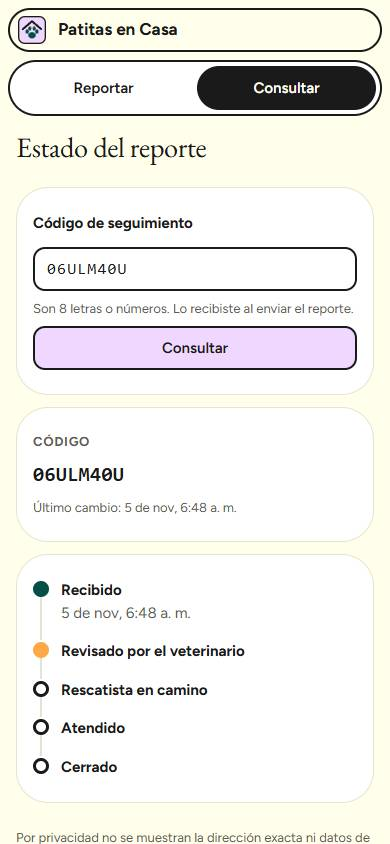
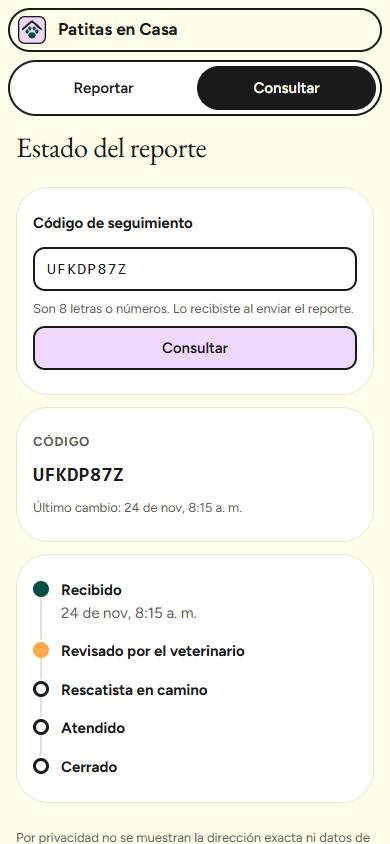
docs: manual de usuario con capturas nuevas y pasos sencillos (#408)
Closes #408

Changed region(s): [[0.0923, 0.5545, 0.6154, 0.6161], [0.1538, 0.7085, 0.4923, 0.7393], [0.1231, 0.3081, 0.3385, 0.3389]]

diff --git a/docs/manual-usuario.md b/docs/manual-usuario.md
@@ -18,9 +18,28 @@ atender. Este manual explica, con capturas, qué hace cada persona en el sistema
 | [Administrador](#administrador) | Botón «Entrar como personal» | Sí |
 | [Alcaldía](#alcaldía) | Botón «Entrar como personal» | Sí, la crea el administrador |
 
-Las capturas se tomaron el 5 de noviembre de 2026, con el diseño nuevo, y los **datos de demostración** (nombres,
-reportes y animales inventados). El ciudadano, el rescatista y el adoptante se muestran en el
-celular (390 px); los demás, en un computador.
+Las capturas se tomaron el **25 de noviembre de 2026** con los **datos de demostración**
+(nombres, reportes y animales inventados). El ciudadano, el rescatista y el adoptante se muestran
+en el celular (390 px); los demás, en un computador.
+
+**Para probarlo sin datos reales**, entra al panel con una cuenta de demostración (la contraseña
+es la misma para todas y la conoce quien instaló el sistema):
+
+| Rol | Correo |
+|---|---|
+| Veterinario | `veterinaria@demo.patitas.co` |
+| Coordinador | `coordinador@demo.patitas.co` |
+| Rescatista | `rescatista@demo.patitas.co` |
+| Adoptante | `adoptante@demo.patitas.co` |
+| Administrador | `admin@demo.patitas.co` |
+| Alcaldía | `alcaldia@demo.patitas.co` |
+
+**Mensajes que puedes ver en cualquier pantalla del panel:**
+
+- «Cargando…»: los datos vienen en camino.
+- «El servidor está despertando»: el servidor estaba dormido; espera unos segundos.
+- «El servidor tuvo un problema, intenta de nuevo en un momento»: no es culpa de lo que
+  escribiste. Espera un poco y toca **Actualizar** o repite la acción.
 
 ---
 
@@ -91,17 +110,23 @@ artificial **sugiere**, pero **el veterinario decide**.
 
 ![Cola de triaje](manual/05-veterinario-cola.jpg)
 
-Al entrar ve la **cola**: los reportes que esperan revisión, primero los más graves
+1. Entra con tu correo y contraseña en **Entrar como personal**.
+2. Se abre la pestaña **Cola de triaje**.
+
+Ahí está la **cola**: los reportes que esperan revisión, primero los más graves
 (crítica, alta, media, baja). Cada prioridad se reconoce por su nombre y su forma, no solo por
 el color: ▲ crítica, ◆ alta, ● media y ○ baja; las críticas y altas llevan además una barra
 gruesa a la izquierda. Al lado se ve hace cuánto llegó el reporte; la confianza de la sugerencia
-(de 0 a 1) aparece al abrirlo. **Actualizar** trae los reportes nuevos.
+(de 0 a 1) aparece al abrirlo. **Actualizar** trae los reportes nuevos. Si no hay ninguno, la
+pantalla dice «No hay reportes por confirmar».
 
 ### 2. Revisar un reporte
 
 ![Detalle de un reporte](manual/06-veterinario-reporte.jpg)
 
-Al tocar un reporte aparece a la derecha (en el celular, debajo):
+Toca un reporte de la lista. Su detalle aparece a la derecha (en el celular, debajo; la pantalla
+baja sola hasta él). Mientras no elijas ninguno, en el computador dice «Elige un reporte de la
+lista». El detalle muestra:
 
 - qué pasó, dónde (con enlace a Google Maps) y hace cuánto llegó;
 - la prioridad sugerida y su confianza;
@@ -129,10 +154,14 @@ Si el ciudadano envió un video, más abajo está **Análisis de video**:
 
 ![Ajustar la prioridad](manual/06b-veterinario-ajustar.jpg)
 
-- **Confirmar**: está de acuerdo con la sugerencia.
-- **Ajustar prioridad…**: elige otra; si es distinta de la sugerida, el sistema pide una
-  **justificación** (al menos 10 caracteres y 5 letras). Queda registrada con su nombre.
-- **Descartar reporte…**: si es falso o repetido, con una justificación.
+Para decidir, elige uno de los tres botones del detalle:
+
+1. **Confirmar** (por ejemplo, «Confirmar crítica»): estás de acuerdo con la sugerencia. Listo.
+2. **Ajustar prioridad…**: se abre un recuadro. Elige la **nueva prioridad** y escribe la
+   **justificación** (al menos 10 caracteres y 5 letras, por ejemplo «Convulsiona: riesgo de
+   muerte»). Toca **Confirmar**. Queda registrada con tu nombre.
+3. **Descartar reporte…**: si es falso o repetido. Elige el motivo, escribe la justificación y
+   confirma.
 
 Confirmado o descartado, el reporte sale de la cola y no se puede volver a decidir. Si queda
 crítico o alto, se avisa a los rescatistas. **Ver estado de los avisos** dice si el correo ya
@@ -165,7 +194,8 @@ Voluntario que va por el animal. Usa el panel **desde el celular**.
 ![Ofertas de rescate](manual/08-rescatista.jpg)
 
 1. En **Mi disponibilidad** marca **Disponible para rescates** cuando pueda salir.
-2. En **Zona** marca las comunas donde puede ir. Si no marca ninguna, recibe toda la ciudad.
+2. En **Zona** marca las comunas donde puede ir. Si no marca ninguna, recibe toda la ciudad (la
+   pantalla lo recuerda debajo de «Zona»).
 3. En **Ofertas de rescate** aparecen los casos críticos y altos ya confirmados por el
    veterinario, con la comuna (la dirección exacta se ve al aceptar) y la misma forma de la
    prioridad (▲ crítica, ◆ alta). Toca **Aceptar rescate**
@@ -203,11 +233,15 @@ Maneja los cupos, los animales y las adopciones de su refugio.
 
 - La barra muestra cuántos cupos están ocupados. Al llegar al **90 %** el sistema avisa a
   coordinación; sin cupo, **no deja** registrar más ingresos.
-- **Registrar ingreso**: nombre, especie, estado de salud y si está vacunado o
-  esterilizado. Si el animal llega de un rescate, escribe el **código del reporte** (lo ve el
-  rescatista en «Mis rescates»): así el ciudadano recibe el aviso de que llegó al refugio. Si
-  el código no existe, el formulario lo dice. Más abajo están los animales del refugio, su ficha y el botón para registrar
-  el **egreso** (adopción, traslado, fallecimiento…), que libera el cupo.
+- **Registrar ingreso**, paso a paso:
+  1. Escribe el **nombre** y elige la **especie**.
+  2. Escribe el **estado de salud** (por ejemplo, «Atropellado, en observación»).
+  3. Si el animal llega de un rescate, escribe el **código del reporte** (lo ve el rescatista en
+     «Mis rescates»): así el ciudadano recibe el aviso de que llegó al refugio. Si el código no
+     existe, el formulario lo dice.
+  4. Marca **Vacunado** o **Esterilizado** si aplica y toca **Registrar ingreso**.
+- Más abajo están los animales del refugio, su ficha y el botón para registrar el **egreso**
+  (adopción, traslado, fallecimiento…), que libera el cupo.
 
 ### 2. Adopciones
 
@@ -280,6 +314,16 @@ En **Indicadores**, al final, está la **bitácora**: quién hizo cada cambio, c
 y cómo estaba **antes → después** (por ejemplo, «prioridad: media → alta»). No se puede
 editar ni borrar. Tampoco guarda contraseñas ni datos personales.
 
+### 3. Modo piloto
+
+Sirve para la prueba de usabilidad con personas reales sin que sus reportes lleguen a la cola.
+
+1. En la pestaña **Modo piloto**, toca **Nuevo participante** en el celular de la prueba.
+2. Se abre la app en modo prueba: la persona reporta como lo haría un ciudadano. El tiempo se
+   mide desde su primer toque hasta que ve el código. Nada llega a la cola ni a los rescatistas.
+3. Al final responde el cuestionario corto (SUS).
+4. **Descargar CSV** se habilita cuando al menos un participante termina; trae los resultados.
+
 ---
 
 ## Alcaldía
@@ -305,24 +349,25 @@ PDF. No ve nombres, direcciones, correos ni códigos.
   que esperar unos minutos. El mensaje dice cuánto.
 - **No veo una pestaña que otra persona sí ve.** Cada rol ve solo lo suyo. Si te falta algo
   que necesitas, habla con el administrador.
+- **Dice «El servidor tuvo un problema».** El servidor falló o se estaba reiniciando; lo que
+  escribiste no tiene la culpa. Espera un momento y vuelve a intentarlo.
 - **¿La IA decide sola?** No. Sugiere una prioridad con sus razones; el veterinario la
   confirma o la cambia. Si la IA duda o falla, el caso se trata como urgente y lo revisa una
   persona.
 
 ## Para quien mantiene el sistema
 
-Las capturas se toman solas con los datos de demostración, sin tocar la base real. Para que
-salgan el video y los historiales se usa la instancia local con PostgreSQL de
-`docs/aprende/e2e.md` (base `patitas_e2e`, puerto 8010) con un reporte que tenga video
-analizado; con el servidor en memoria (`python servidor_demo.py 8765`) salen las demás.
+Las capturas se toman solas con los datos de demostración, sin tocar la base real. Las del 25 de
+noviembre salieron del sistema local (`scripts/dev/arrancar_local.ps1`, ver
+`docs/aprende/desarrollo-local.md`) sobre una base de **prueba**:
 
-```bash
-cd scripts/accesibilidad
+```powershell
+cd scripts\accesibilidad
 npm ci
-PATITAS_DEMO_CONTRASENA=<la misma de la instancia> node capturas.mjs http://127.0.0.1:8010
+$env:PATITAS_DEMO_CONTRASENA = "<la de tu .env>"; $env:A11Y_CANAL = "msedge"
+node capturas.mjs http://127.0.0.1:8000
 ```
 
-En Windows con Edge, agrega `A11Y_CANAL=msedge`. La captura del análisis de video
-(`06c-veterinario-video.jpg`) solo se retoma con el trabajador de video encendido; la del 5 de
-noviembre conserva la anterior. El script acepta un rescate y registra un
+La captura del análisis de video (`06c-veterinario-video.jpg`) solo se retoma con el trabajador
+de video encendido y un reporte con video analizado; se conserva la del 5 de noviembre. El script acepta un rescate y registra un
 resultado: úsalo solo en una base de prueba.

diff --git a/PLAN_CIERRE.md b/PLAN_CIERRE.md
@@ -229,8 +229,8 @@ sistema se ve en local con un PostgreSQL temporal (puerto 5433, datos de demostr
 | # | Trabajo | Estado | PR |
 |---|---|---|---|
 | 1 | Hallazgos 11 a 14 | **no aplicado**: son de diseño; quedan para los mockups | — |
-| 2 | Capturas del estado actual (`docs/revision-visual/estado-actual/`) | hecho | #406 → PR |
-| 3 | Manual de usuario con capturas nuevas | pendiente | |
+| 2 | Capturas del estado actual (`docs/revision-visual/estado-actual/`) | hecho | #407 |
+| 3 | Manual de usuario con capturas nuevas | hecho (20 capturas; la del video se conserva: sin nodo en local) | #408 → PR |
 | 4 | README como portada del repositorio | pendiente | |
 | 5 | Trabajo 3b: reglas solo en el código (§5, propuesta sin aplicar) | pendiente | |
 | 6 | RN-08 sin servidor despierto (propuesta en `docs/aprende/despliegue.md`) | pendiente | |
